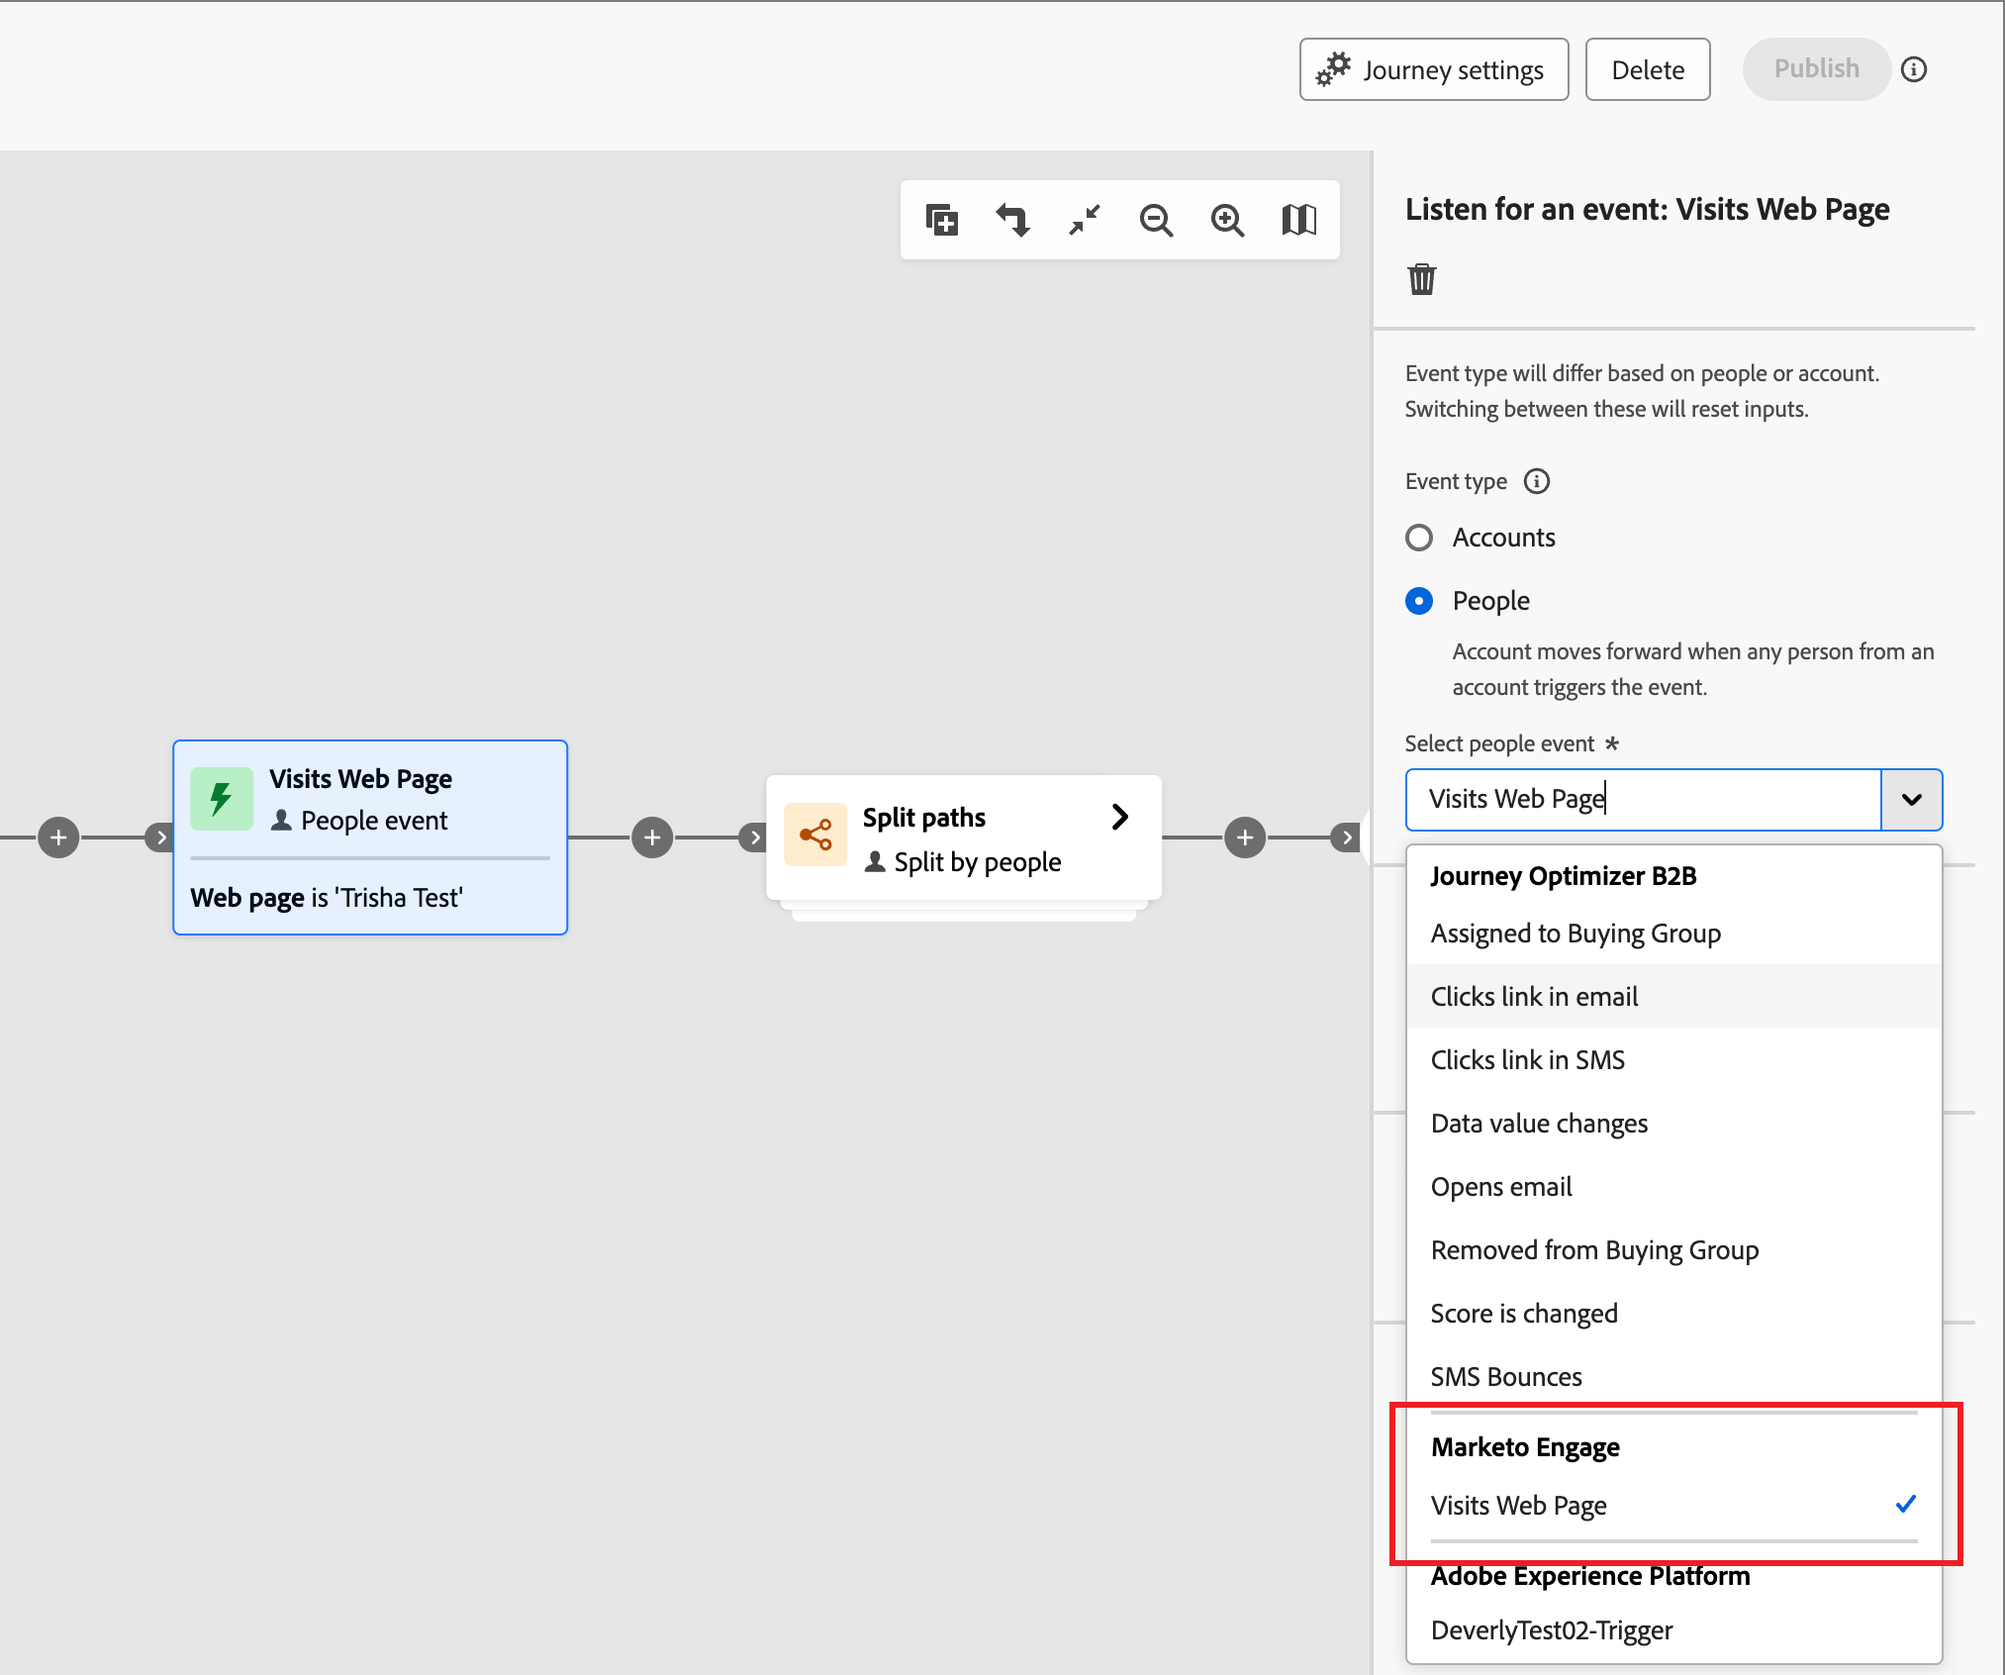
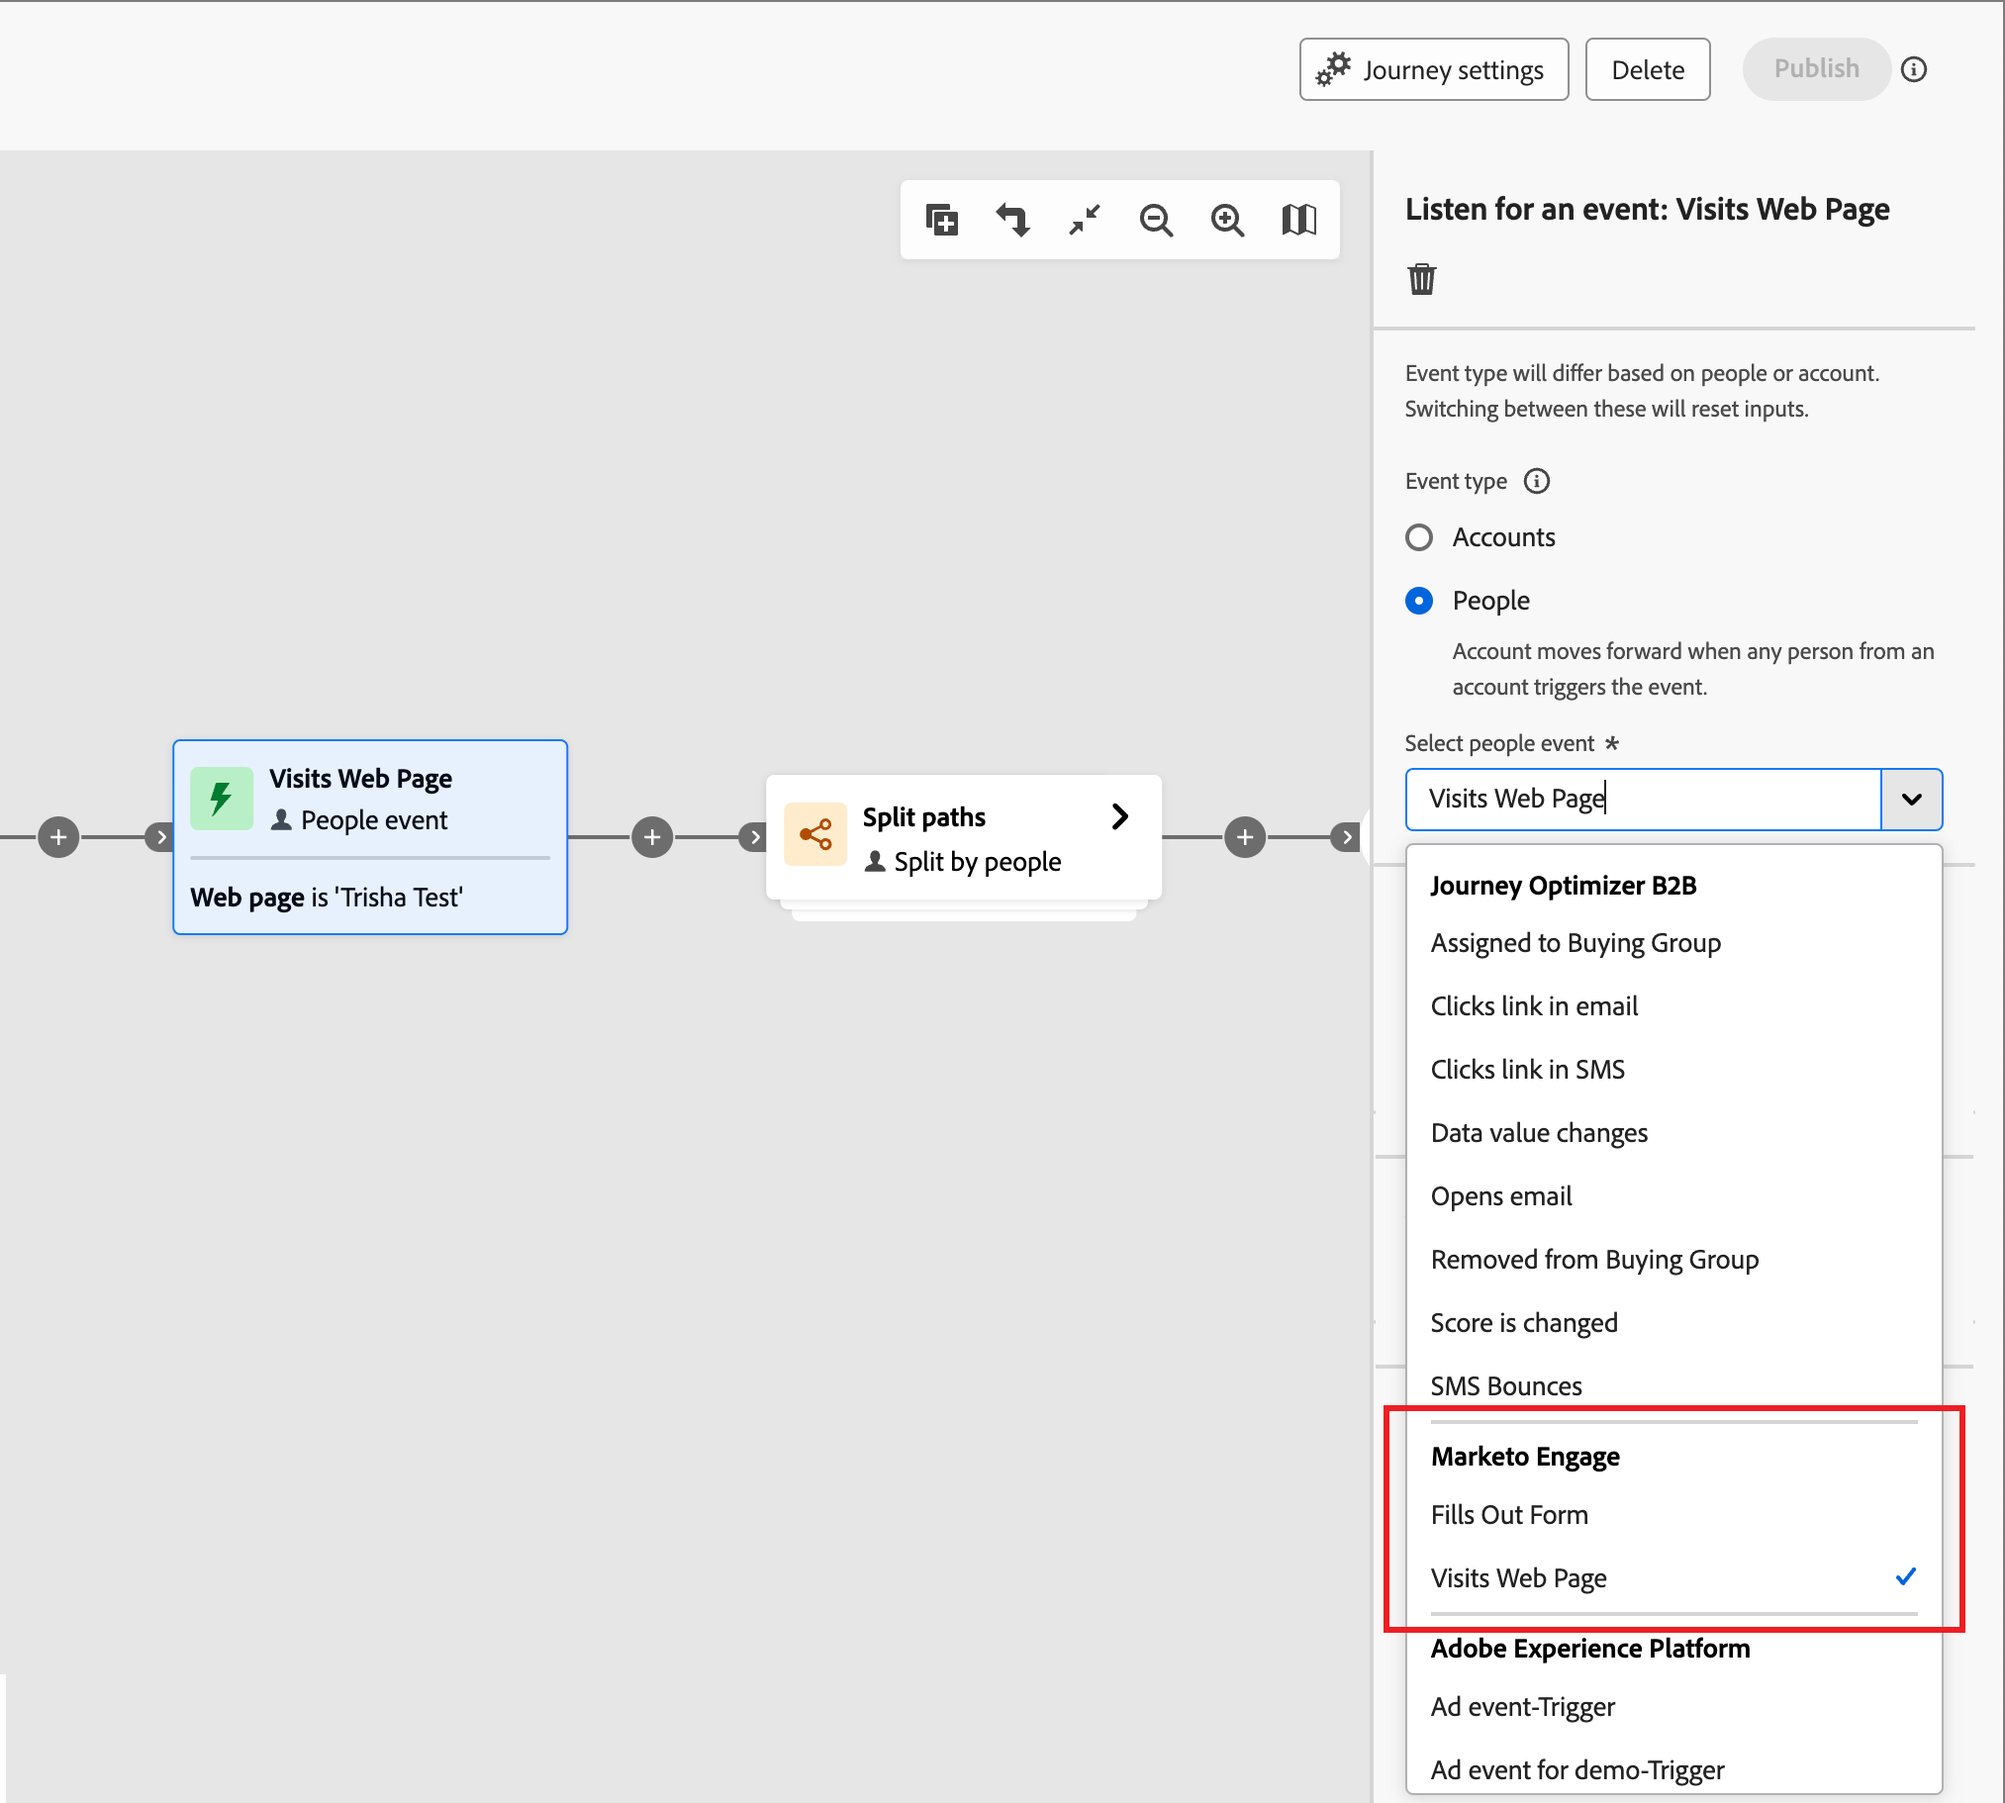
Update for ME Fills out form

diff --git a/help/user/journeys/listen-for-event-nodes.md b/help/user/journeys/listen-for-event-nodes.md
@@ -52,12 +52,12 @@ Listen for an event based on people when you want to move the account forward in
 | | Clicks link in email | Email<br/><br/>Additional constraints (optional): <li>Link</li><li>Link ID</li><li>Is mobile device</li><li>Device</li><li>Platform</li><li>Browser</li><li>Is predictive content</li><li>Is bot activity</li><li>Bot activity pattern</li><li>Browser</li><li>Date of activity</li><li>Min. number of times</li><br/>Timeout (optional) |
 | | Clicks link in SMS | Email<br/><br/>Additional constraints (optional): <li>Link</li><li>Device</li><li>Platform</li><li>Date of activity</li><li>Min. number of times</li><br/>Timeout (optional) |
 | | Data value changes | Person attribute<br/><br/>Additional constraints (optional): <li>New value</li><li>Previous value</li><li>Reason</li><li>Source</li><li>Date of activity</li><li>Min. number of times</li><br/>Timeout (optional) |
-| | Fills out form | Form <br/><br/>Additional constraints (optional): <li>Date of activity</li><li>Querystring</li><li>Client IP address</li><li>Referrer</li><li>User agent</li><li>Platform</li><li>Device</li><br/>Timeout (optional) |
 | | Opens email | Email<br/><br/>Additional constraints (optional): <li>Link</li><li>Link ID</li><li>Is mobile device</li><li>Device</li><li>Platform</li><li>Browser</li><li>Is predictive content</li><li>Is bot activity</li><li>Bot activity pattern</li><li>Browser</li><li>Date of activity</li><li>Min. number of times</li><br/>Timeout (optional) |
 | | Removed from Buying Group | Solution interest<br/>Date of activity (optional)<br/>Timeout (optional) |
 | | Score is changed | Score name<br/><br/>Additional constraints (optional):<li>Change</li><li>New score</li><li>Urgency</li><li>Priority</li><li>Relative score</li><li>Relative urgency</li><li>Date of activity</li><li>Min. number of times</li><br/>Timeout (optional) |
 | | SMS Bounces| SMS message<br/><br/>Additional constraints (optional): <li>Date of activity</li><li>Min number of times</li><br/>Timeout (optional) |
-| Marketo Engage | Visits Web Page | Web page <br/> Select one or more Marketo Engage pages and evaluate for _is_, _is not_, or _is any_. <br/><br/>Additional constraints (optional): <li>Querystring</li><li>Client IP address</li><li>Referrer</li><li>User Agent</li><li>Search engine</li><li>Search query</li><li>Token</li><li>Browser</li><li>Platform</li><li>Device</li><li>Date of activity</li> |
+| Marketo Engage | Visits Web Page | Web page <br/> Select one or more Marketo Engage pages to match. <br/><br/>Additional constraints (optional): <li>Querystring</li><li>Client IP address</li><li>Referrer</li><li>User Agent</li><li>Search engine</li><li>Search query</li><li>Token</li><li>Browser</li><li>Platform</li><li>Device</li><li>Date of activity</li> |
+| | Fills out form | Form <br/> Select one or more Marketo Engage forms to match.  <br/><br/>Additional constraints (optional): <li>Date of activity</li><li>Querystring</li><li>Client IP address</li><li>Referrer</li><li>User agent</li><li>Platform</li><li>Device</li><br/>Timeout (optional) |
 | Adobe Experience Platform | Event definition | Event type <br/><br/>Additional constraints (optional): <li>Fields</li> <br/>Additional constraints (not supported): <li>Date of activity</li><li>Min. number of times</li><br/> Timeout (optional) |
 
 ### Add a people event
@@ -76,7 +76,7 @@ Listen for an event based on people when you want to move the account forward in
 
 ### Listen for Marketo Engage event
 
-If you have web pages created in your connected Marketo Engage instance, you can trigger an event based on a visit or no visit to a Marketo Engage web page. 
+If you have web pages created in your connected Marketo Engage instance, you can trigger an event based on a visit/no visit to Marketo Engage web pages, as well as Marketo Engage forms that were/were not filled. 
 
 1. Select a **[!UICONTROL Listen for an event]** node in the journey editor.
 
@@ -84,13 +84,16 @@ If you have web pages created in your connected Marketo Engage instance, you can
 
 1. Click the arrow for the **[!UICONTROL Select people event]** selector and scroll the menu to the **[!UICONTROL Marketo Engage]** section.
 
-1. Select **[!UICONTROL Visits Web Page]**.
+1. Select a Market Engage activity type:
+
+   * **[!UICONTROL Visits Web Page]**.
+   * **[!UICONTROL Fills Out Form]**
 
    ![Listen for an experience event](./assets/node-listen-events-people-me-event.png){width="700" zoomable="yes"}
 
 1. Click **[!UICONTROL Edit event]** and define one or more web pages to match and any additional constraints for the event.
 
-   * (Required) In the _[!UICONTROL Edit event]_ dialog, define the **[!UICONTROL Web page]** constraint. Use **[!UICONTROL is]** (default) to match on one or more selected pages. Use **[!UICONTROL is not]** to match on all page visits with the exclusion of one or more selected pages. Or, use **[!UICONTROL is any]** to match on a visit to any Marketo Engage web page.
+   * (Required) In the _[!UICONTROL Edit event]_ dialog, define the **[!UICONTROL Web page]** or Fills out form constraint. Use **[!UICONTROL is]** (default) to match on one or more selected pages or forms. Use **[!UICONTROL is not]** to match on all page visits/forms with the exclusion of one or more selected pages/forms. Or, use **[!UICONTROL is any]** to match on any Marketo Engage web page visit or filled form.
 
    * (Optional) Click **[!UICONTROL Add constraint]** and choose the field that you want to use for the constraint. Set the operator and the value for the field.
 
